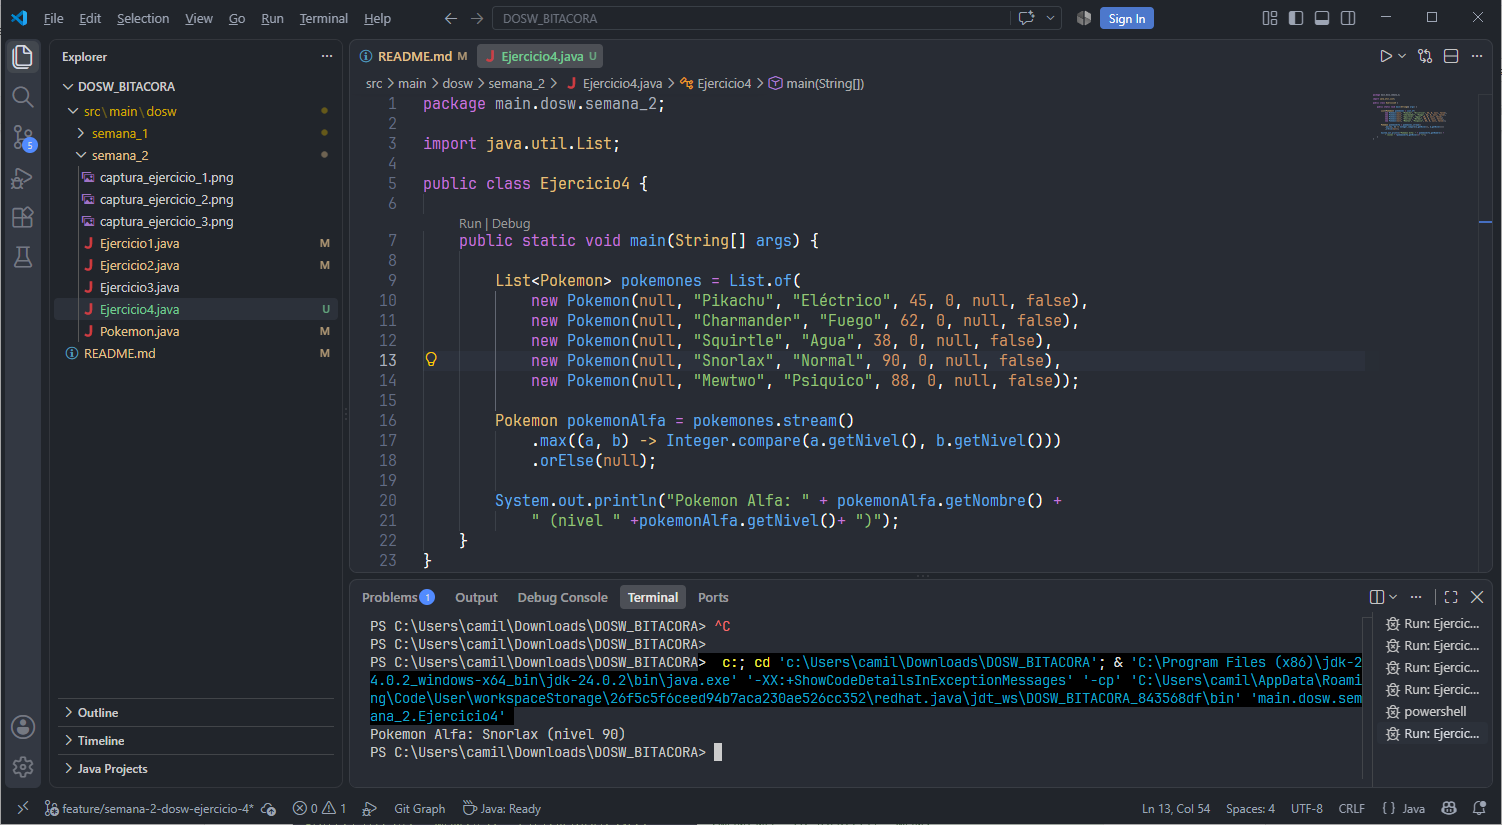
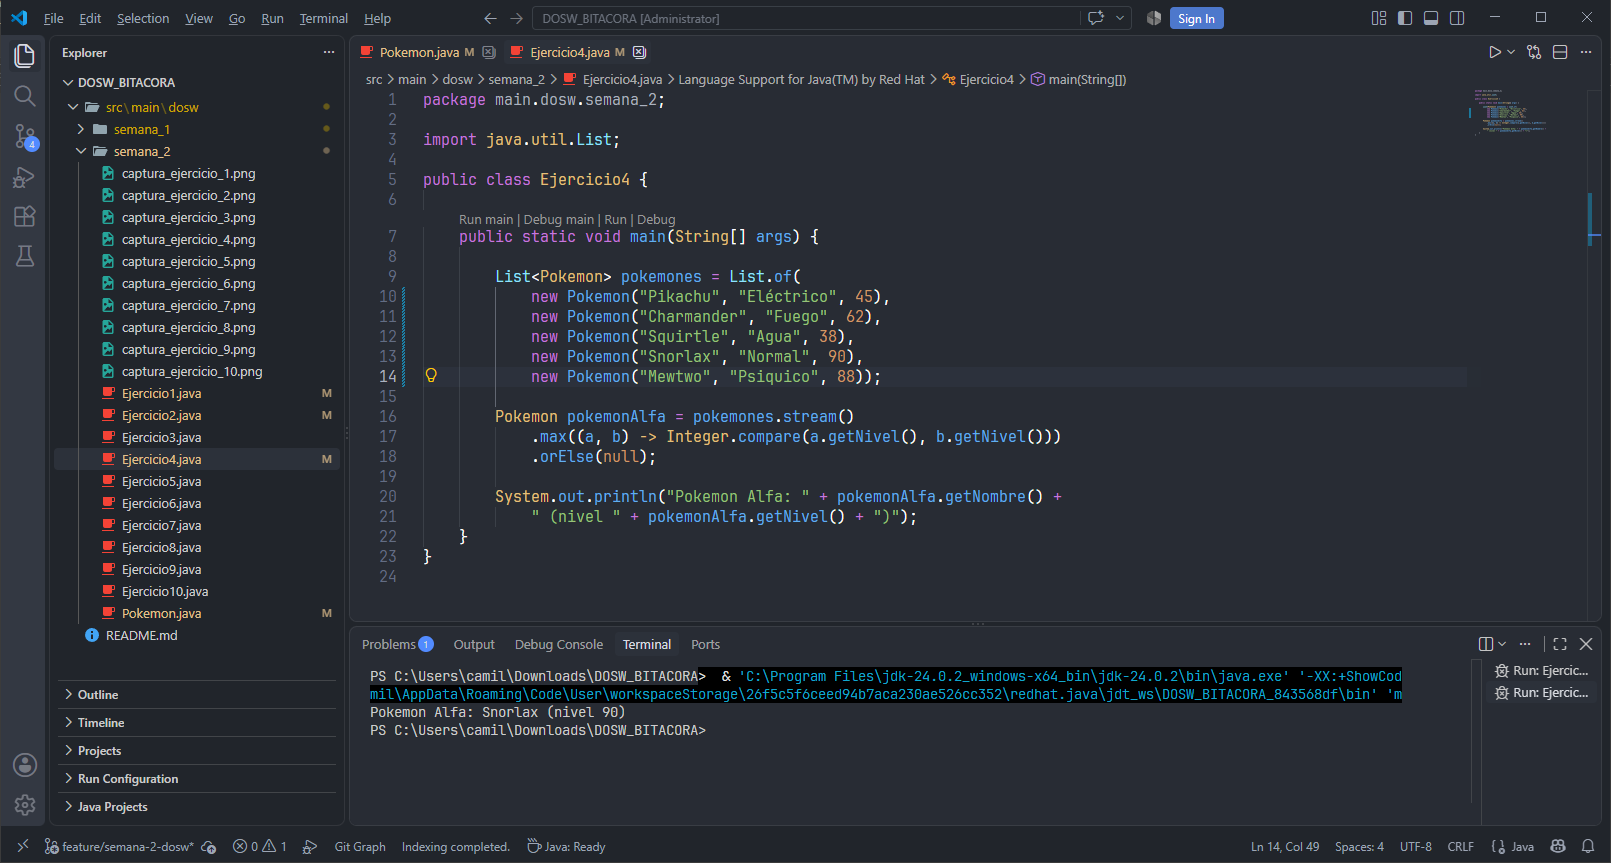
Correccion ejercicios y ejercicio 11

diff --git a/src/main/dosw/semana_2/Ejercicio1.java b/src/main/dosw/semana_2/Ejercicio1.java
@@ -7,15 +7,15 @@ public class Ejercicio1 {
     public static void main(String[] args) {
         
         List<Pokemon> pokemones = List.of(
-            new Pokemon(null, "Pikachu", "Eléctrico", 0, 0, null, false),
-            new Pokemon(null, "Charmander", "Fuego", 0, 0, null, false),
-            new Pokemon(null, "Squirtle", "Agua", 0, 0, null, false),
-            new Pokemon(null, "Vulpix", "Fuego", 0, 0, null, false),
-            new Pokemon(null, "Bulbasaur", "Planta", 0, 0, null, false),
-            new Pokemon(null, "Flareon", "Fuego", 0, 0, null, false));
+            new Pokemon("Pikachu", "Eléctrico"),
+            new Pokemon("Charmander", "Fuego"),
+            new Pokemon("Squirtle", "Agua"),
+            new Pokemon("Vulpix", "Fuego"),
+            new Pokemon("Bulbasaur", "Planta"),
+            new Pokemon("Flareon", "Fuego"));
 
         List<String> pokemonesTipoFuego = pokemones.stream()
-            .filter(p -> p.getTipo() == "Fuego")
+            .filter(p -> "Fuego".equals(p.getTipo()))
             .map(Pokemon::getNombre)
             .toList();
         

diff --git a/src/main/dosw/semana_2/Ejercicio5.java b/src/main/dosw/semana_2/Ejercicio5.java
@@ -7,12 +7,12 @@ public class Ejercicio5 {
     public static void main(String[] args) {
         
         List<Pokemon> pokemones = List.of(
-            new Pokemon(null, "Pikachu", "Eléctrico", 45, 0, null, false),
-            new Pokemon(null, "Charmander", "Fuego", 62, 0, null, false),
-            new Pokemon(null, "Squirtle", "Agua", 38, 0, null, false),
-            new Pokemon(null, "Dragonite", null, 82, 0, null, false),
-            new Pokemon(null, "Mewtwo", "Psiquico", 88, 0, null, false),
-            new Pokemon(null, "Mew", null, 85, 0, null, false));
+            new Pokemon("Pikachu", "Eléctrico", 45),
+            new Pokemon("Charmander", "Fuego", 62),
+            new Pokemon("Squirtle", "Agua", 38),
+            new Pokemon("Dragonite", null, 82),
+            new Pokemon("Mewtwo", "Psiquico", 88),
+            new Pokemon("Mew", null, 85));
 
         long cantidadPokemonesLegendarios = pokemones.stream()
             .filter(p -> p.getNivel() > 80)

diff --git a/src/main/dosw/semana_2/Ejercicio11.java b/src/main/dosw/semana_2/Ejercicio11.java
@@ -1,0 +1,25 @@
+package main.dosw.semana_2;
+
+import java.util.List;
+
+public class Ejercicio11 {
+
+    public static void main(String[] args) {
+
+        List<Pokemon> pokemones = List.of(
+            new Pokemon(1L, "Pikachu", "Eléctrico", 35, 320, "Kanto", false),
+            new Pokemon(2L, "Mewtwo", "Psíquico", 70, 680, "Kanto", true),
+            new Pokemon(3L, "Dragonite", "Dragón/Volador", 55, 530, "Kanto", false),
+            new Pokemon(4L, "Squirtle", "Agua", 20, 210, "Kanto", false),
+            new Pokemon(5L, "Gengar", "Fantasma/Veneno", 50, 495, "Kanto", false),
+            new Pokemon(6L, "Charizard", "Fuego/Volador", 65, 610, "Kanto", false)
+        );
+
+        double poderPromedio = pokemones.stream()
+            .mapToDouble(Pokemon::getPoderCombate)
+            .average()
+            .orElse(0);
+
+        System.out.printf("Poder de combate promedio: %f", poderPromedio);
+    }
+}

diff --git a/src/main/dosw/semana_2/Ejercicio4.java b/src/main/dosw/semana_2/Ejercicio4.java
@@ -7,11 +7,11 @@ public class Ejercicio4 {
     public static void main(String[] args) {
         
         List<Pokemon> pokemones = List.of(
-            new Pokemon(null, "Pikachu", "Eléctrico", 45, 0, null, false),
-            new Pokemon(null, "Charmander", "Fuego", 62, 0, null, false),
-            new Pokemon(null, "Squirtle", "Agua", 38, 0, null, false),
-            new Pokemon(null, "Snorlax", "Normal", 90, 0, null, false),
-            new Pokemon(null, "Mewtwo", "Psiquico", 88, 0, null, false));
+            new Pokemon("Pikachu", "Eléctrico", 45),
+            new Pokemon("Charmander", "Fuego", 62),
+            new Pokemon("Squirtle", "Agua", 38),
+            new Pokemon("Snorlax", "Normal", 90),
+            new Pokemon("Mewtwo", "Psiquico", 88));
 
         Pokemon pokemonAlfa = pokemones.stream()
             .max((a, b) -> Integer.compare(a.getNivel(), b.getNivel()))

diff --git a/src/main/dosw/semana_2/Ejercicio2.java b/src/main/dosw/semana_2/Ejercicio2.java
@@ -7,10 +7,10 @@ public class Ejercicio2 {
     public static void main(String[] args) {
         
         List<Pokemon> pokemones = List.of(
-            new Pokemon(null, "Pikachu", "Eléctrico", 0, 0, null, false),
-            new Pokemon(null, "Charmander", "Fuego", 0, 0, null, false),
-            new Pokemon(null, "Squirtle", "Agua", 0, 0, null, false),
-            new Pokemon(null, "Bulbasaur", "Planta", 0, 0, null, false));
+            new Pokemon("Pikachu", "Eléctrico"),
+            new Pokemon("Charmander", "Fuego"),
+            new Pokemon("Squirtle", "Agua"),
+            new Pokemon("Bulbasaur", "Planta"));
 
         List<String> pokemonesMayusculas = pokemones.stream()
             .map(p -> p.getNombre().toUpperCase())

diff --git a/src/main/dosw/semana_2/Pokemon.java b/src/main/dosw/semana_2/Pokemon.java
@@ -21,6 +21,16 @@ public class Pokemon {
         this.legendario = legendario;
     }
 
+    public Pokemon(String nombre, String tipo) {
+        this.nombre = nombre;
+        this.tipo = tipo;
+    }
+
+    public Pokemon(String nombre, String tipo, int nivel) {
+        this(nombre, tipo);
+        this.nivel = nivel;
+    }
+
     public Long getId() {
         return id;
     }
